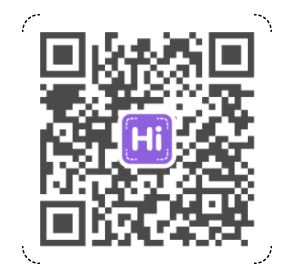
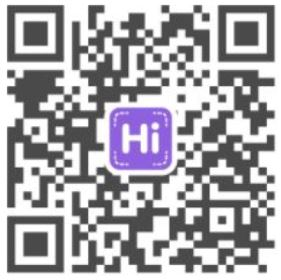
Adding img

diff --git a/index.html b/index.html
@@ -120,7 +120,7 @@
               Access my <b>virtual business card</b> <a href="https://hihello.me/p/738a5aae-ed44-4f56-98ad-b6ad03b5c973" target="_blank" rel="noopener noreferrer">here</a> or scan the <b>QR Code</b>.
             </p>
             <div>
-              <img src="assets/img/cropped.jpg" class="img-fluid" alt="">
+              <img src="assets/img/QR.JPG" class="img-fluid" alt="">
             </div>
           </div>
         </div>
